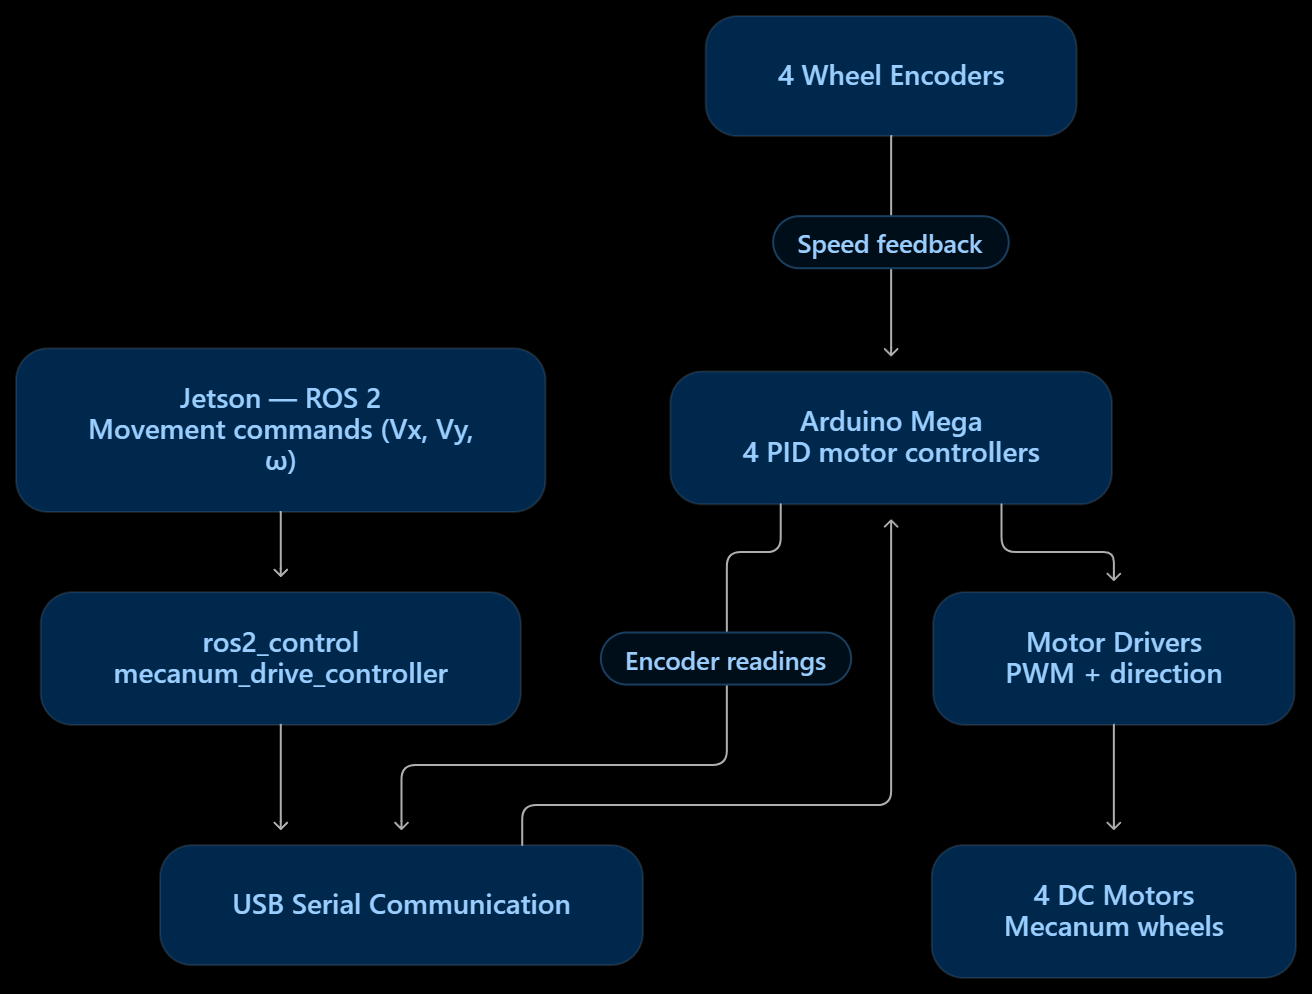
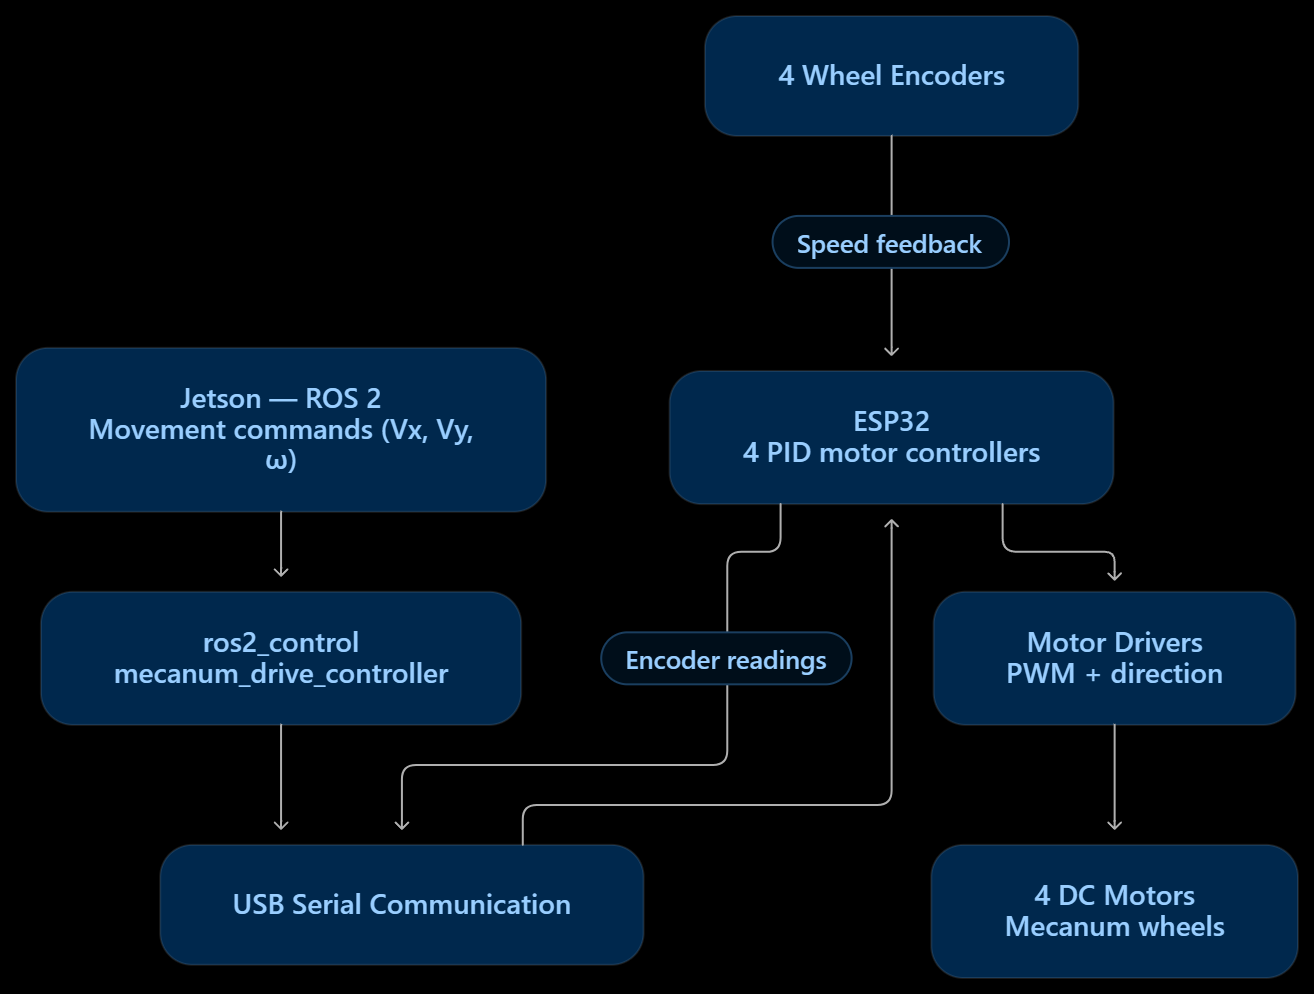
docs: update hardware stack and software chart

diff --git a/AGENTS.md b/AGENTS.md
@@ -2,7 +2,7 @@
 
 This project controls the robot's four mecanum wheels.
 
-- The current hardware stack is Arduino uno r3 -> XY160D Motor Driver Module -> 12 DC motor connected with magnum wheels
+- The current hardware stack is ESP32 S3(as main) and Arduino uno r3(as prototype) -> XY160D Motor Driver Module -> 12 DC motor connected with magnum wheels
 
 - `motor_code_ref.cpp` contains motor driver's official documentation best-practice reference code. Read it when implementing or changing control code.
 
